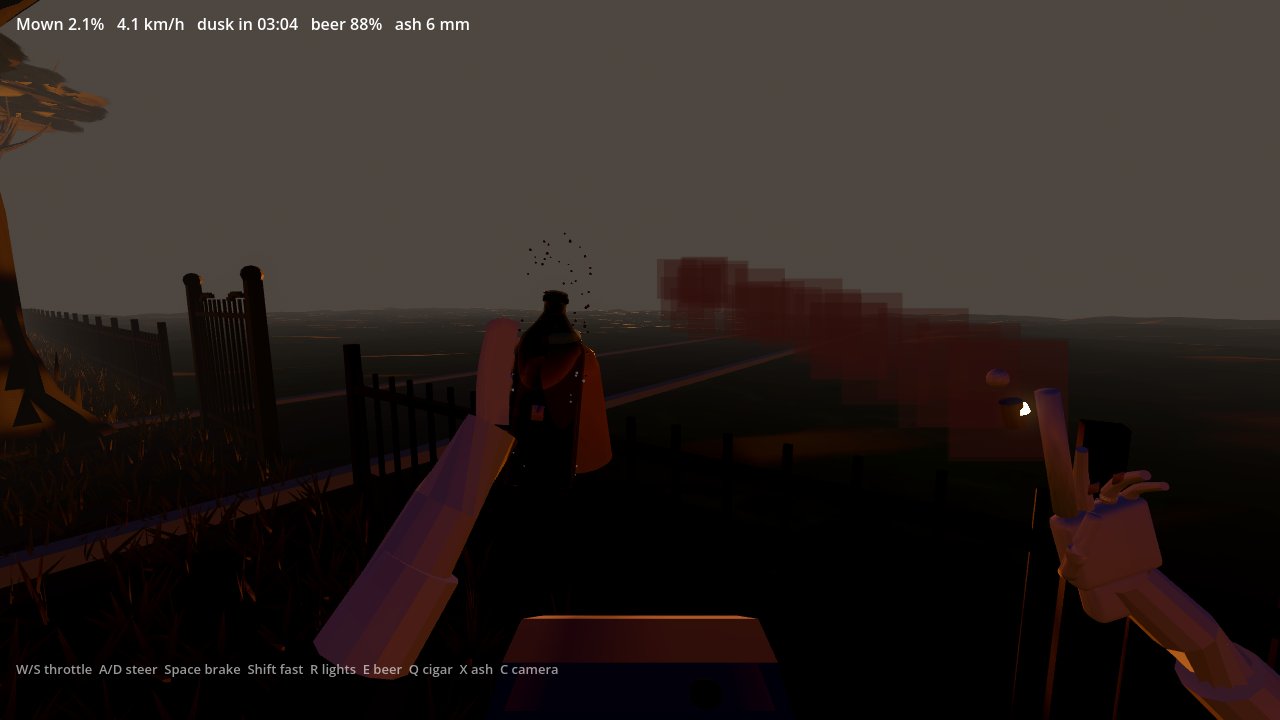
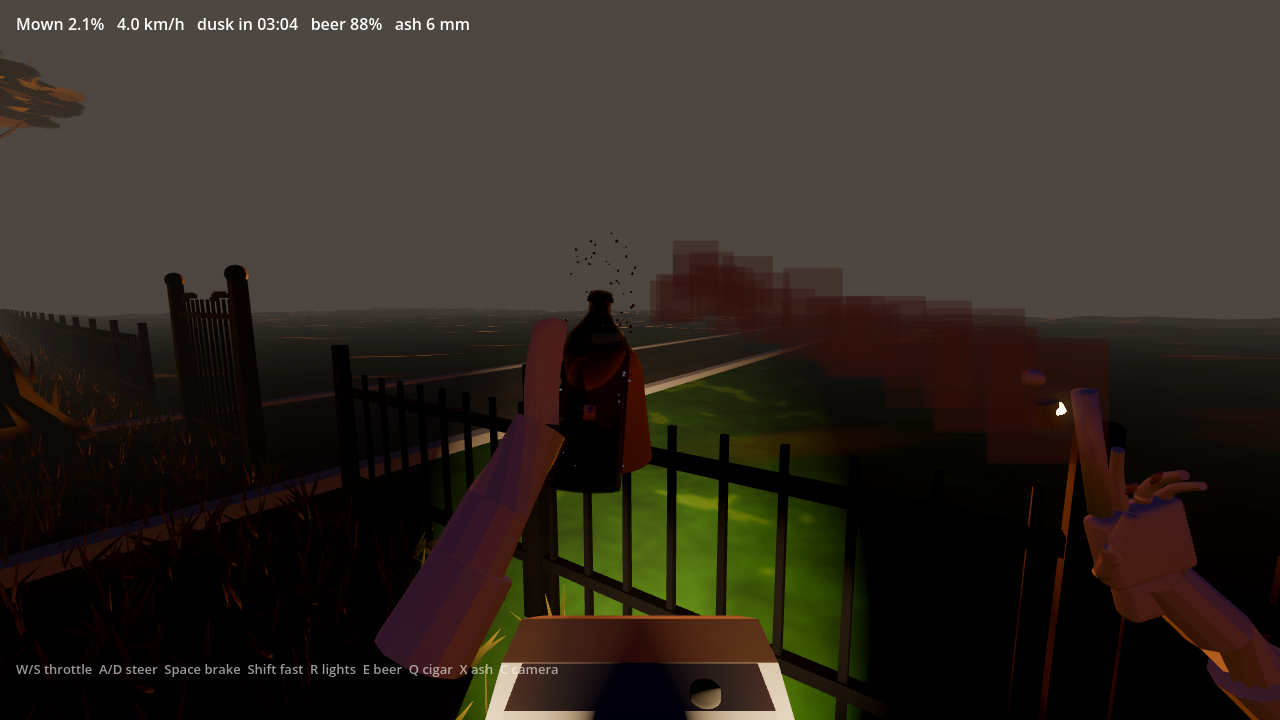
feat(viewmodels): cigar_present pose; ash flakes slow-fall + AABB envelope; ash set piece AUTHORED at v17

diff --git a/evidence/qc/qc_log.md b/evidence/qc/qc_log.md
@@ -158,3 +158,9 @@ side-silhouette coherence not fully passing at cap; front/3-quarter views pass.
 - C6 FP + TP: C toggles. FP eye lowered to 1.25 m + -0.12 pitch: hood + front tyres read in normal forward view (t01 AUTHORED). TP chase cam: 4.7 look_at oriented 180 deg off -> explicit right/up/forward basis. t65 whole mower + headlight pools, AUTHORED.
 - HUD: beer % fixed (was ratio of stale 0.7 default, showed 142%).
 - Tests: 34/34 Gut (11 new: grass pins, slosh world-level, drink chain, toss guard, camera toggle, cigar body shrink, flick drop).
+
+## Criteria lane final (v17): ash set piece + chase cam gated
+- t82_ash_long: cigar readable center-frame, 22 mm grey ash column past glowing ember - AUTHORED.
+- t83b_ash_falling: grey flakes drifting below cigar, ember clean, HUD ash 0 mm - AUTHORED.
+- Fix chain for invisible ash: (1) debris reparented off hidden ash column, (2) GPUParticles3D visibility_aabb set (default point AABB frustum-culls the burst), (3) slow-flake gravity, (4) cigar_present pose brings the set piece to frame center.
+- v17 harness: 1239 frames, 15.2 fps avg, 13.3 1%-low, 17 captures, 0 script errors. Gut 34/34.
